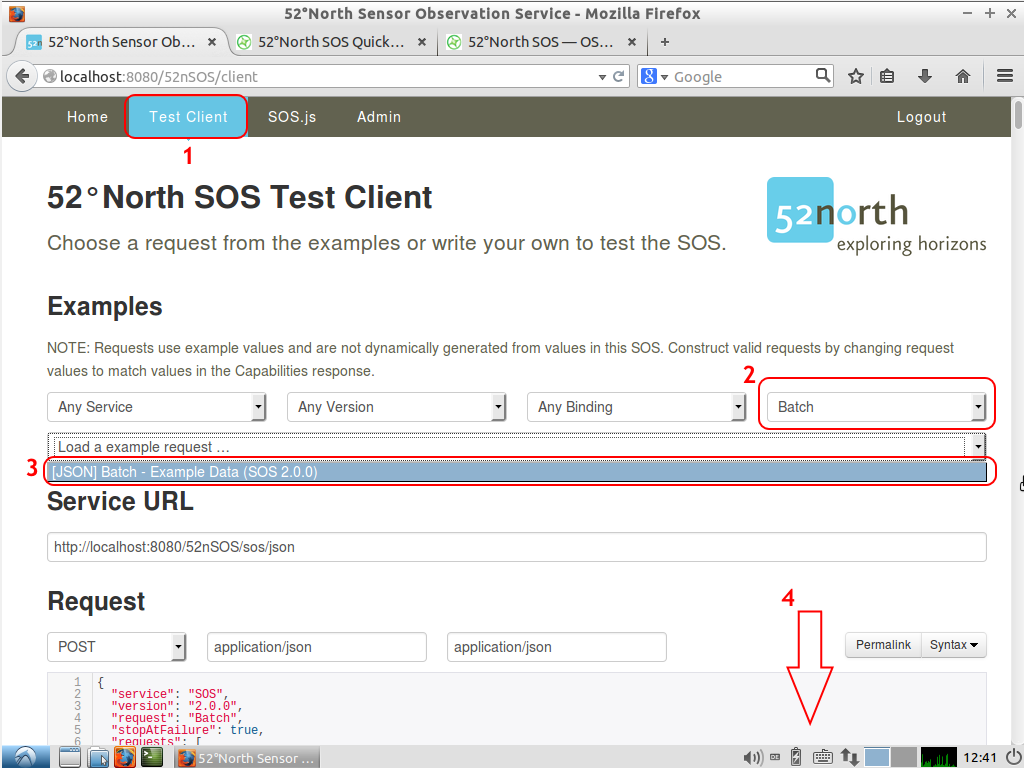
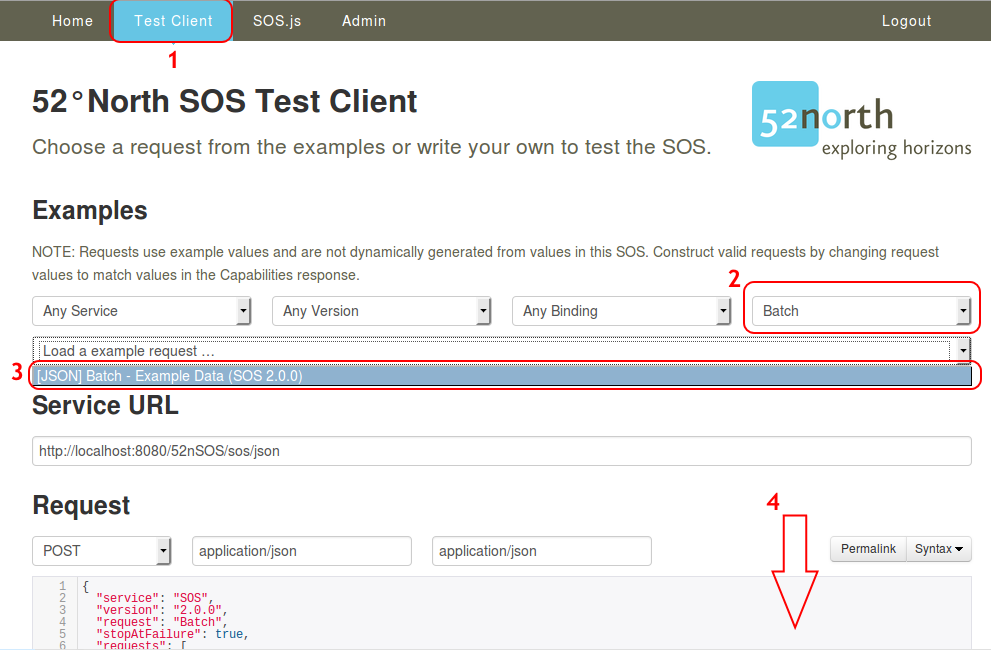
crop, optipng -o5, svn propset, ReST scale

diff --git a/livedvd/gisvm/trunk/doc/en/quickstart/52nSOS_quickstart.rst b/livedvd/gisvm/trunk/doc/en/quickstart/52nSOS_quickstart.rst
@@ -30,7 +30,7 @@ Getting Started
 2. This will open the 52°North SOS client welcome page in firefox at http://localhost:8080/52nSOS/.  Open the test client by selecting the version you would like to use, 1.0.0 for example:
 
 .. image:: ../../images/screenshots/1024x768/52n_sos_install_start.png
-  :scale: 100 %
+  :scale: 70 %
   :alt: screenshot of 52°North SOS client welcome page
   :align: center
 
@@ -42,7 +42,7 @@ Getting Started
    2.0 installed.
 
 .. image:: ../../images/screenshots/1024x768/52n_sos_insert_test_data.png
-  :scale: 100 %
+  :scale: 70 %
   :alt: screenshot of 52°North SOS client - test client with batch operation
   :align: center
   
